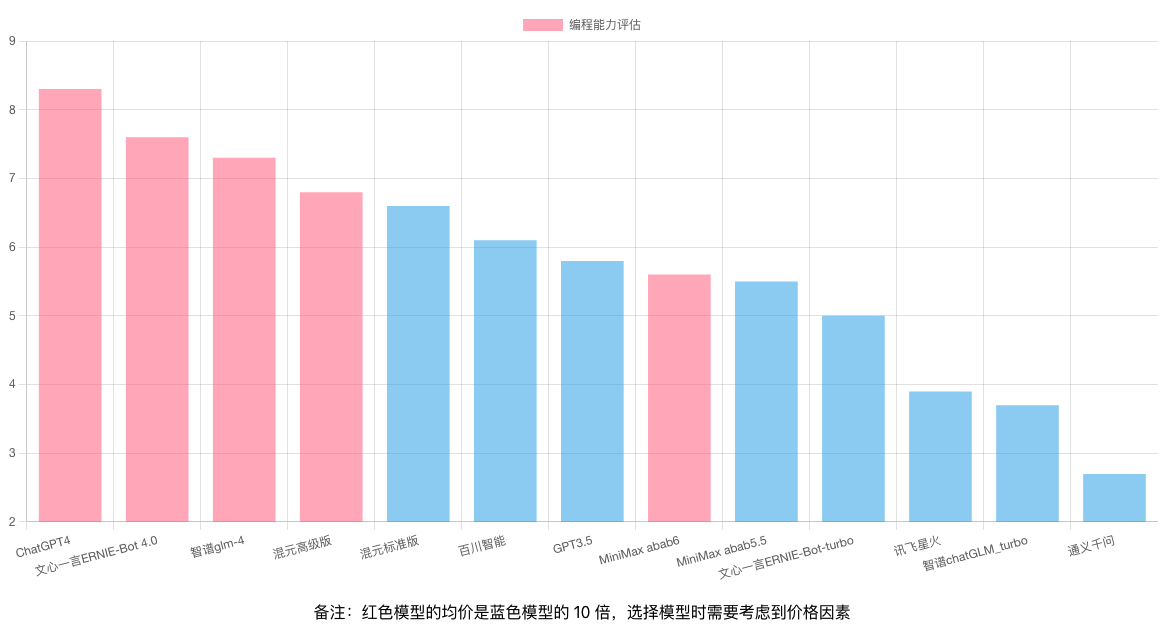
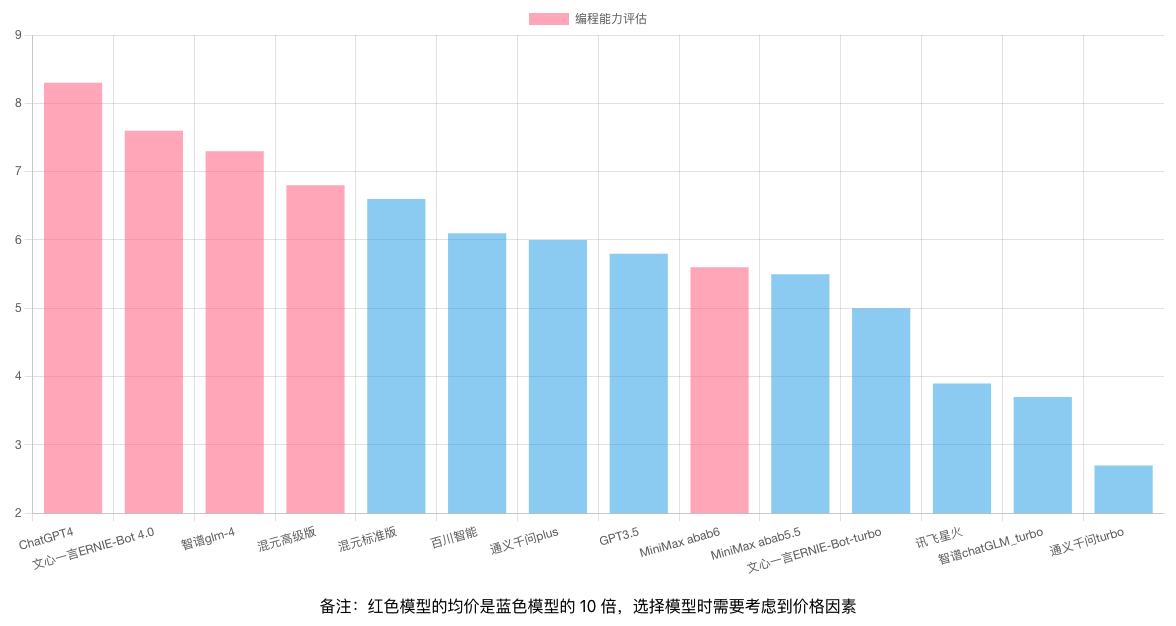
Add support for Ali Tongyiqianwen plus

diff --git a/ai-hub-fe/src/ModelAssess.js b/ai-hub-fe/src/ModelAssess.js
@@ -14,15 +14,16 @@ const ModelAssess = () => {
         const translationChartInstance = new Chart(translationChartRef.current, {
             type: 'bar',
             data: {
-                labels: ['ChatGPT4', '智谱glm-4', '文心一言ERNIE-Bot 4.0', '混元高级版', 'MiniMax abab6', 'GPT3.5',
-                    '百川智能', '智谱chatGLM_turbo', '混元标准版', 'MiniMax abab5.5', '讯飞星火', '通义千问', '文心一言ERNIE-Bot-turbo'],
+                labels: ['ChatGPT4', '智谱glm-4', '文心一言ERNIE-Bot 4.0', '通义千问plus', '混元高级版', 'MiniMax abab6', 'GPT3.5',
+                    '百川智能', '智谱chatGLM_turbo', '混元标准版', 'MiniMax abab5.5', '讯飞星火', '通义千问turbo', '文心一言ERNIE-Bot-turbo'],
                 datasets: [{
                     label: '翻译能力评估',
-                    data: [8, 7.2, 7.1, 6.6, 6.6, 6.4, 6.4, 6.3, 6.3, 6, 5.9, 5.3, 4.9],
+                    data: [8, 7.2, 7.1, 6.9, 6.6, 6.6, 6.4, 6.4, 6.3, 6.3, 6, 5.9, 5.3, 4.9],
                     backgroundColor: [
                         'rgba(255, 99, 132, 0.5)',
                         'rgba(255, 99, 132, 0.5)',
                         'rgba(255, 99, 132, 0.5)',
+                        'rgba(54, 162, 235, 0.5)',
                         'rgba(255, 99, 132, 0.5)',
                         'rgba(255, 99, 132, 0.5)',
                         'rgba(54, 162, 235, 0.5)',
@@ -50,17 +51,18 @@ const ModelAssess = () => {
         const codingChartInstance = new Chart(codingChartRef.current, {
             type: 'bar',
             data: {
-                labels: ['ChatGPT4', '文心一言ERNIE-Bot 4.0', '智谱glm-4', '混元高级版', '混元标准版', '百川智能', 'GPT3.5',
-                    'MiniMax abab6', 'MiniMax abab5.5', '文心一言ERNIE-Bot-turbo', '讯飞星火', '智谱chatGLM_turbo', '通义千问'],
+                labels: ['ChatGPT4', '文心一言ERNIE-Bot 4.0', '智谱glm-4', '混元高级版', '混元标准版', '百川智能', '通义千问plus', 'GPT3.5',
+                    'MiniMax abab6', 'MiniMax abab5.5', '文心一言ERNIE-Bot-turbo', '讯飞星火', '智谱chatGLM_turbo', '通义千问turbo'],
                 datasets: [{
                     label: '编程能力评估',
                     data: [8.3, 7.6, 7.3, 6.8, 6.6,
-                        6.1, 5.8, 5.6, 5.5, 5, 3.9, 3.7, 2.7],
+                        6.1, 6, 5.8, 5.6, 5.5, 5, 3.9, 3.7, 2.7],
                     backgroundColor: [
                         'rgba(255, 99, 132, 0.5)',
                         'rgba(255, 99, 132, 0.5)',
                         'rgba(255, 99, 132, 0.5)',
                         'rgba(255, 99, 132, 0.5)',
+                        'rgba(54, 162, 235, 0.5)',
                         'rgba(54, 162, 235, 0.5)',
                         'rgba(54, 162, 235, 0.5)',
                         'rgba(54, 162, 235, 0.5)',

diff --git a/ai-hub-fe/src/Chat.js b/ai-hub-fe/src/Chat.js
@@ -21,6 +21,7 @@ function Chat() {
         'Xunfei/Spark3.1': true,
 
         'Baidu/ERNIE-Bot-4': false,
+        'Ali/qwen-plus': false,
         'Zhipu/glm-4': false,
         'Tencent/ChatPro': false,
         'Minimax/abab6-chat': false,

diff --git a/docs/use_cases/translation/case2.md b/docs/use_cases/translation/case2.md
@@ -5,43 +5,46 @@ All mine were written by men (it was always men) who held the interesting notion
 
 ## Translations
 
-### OpenAI/ChatGPT4（8分）
+### OpenAI/ChatGPT4（8）
 这些书籍都是男性作者（似乎总是男性）所写，他们坚信一个有趣的理念：只要以公式表达，任何内容都会变得明晰。他们还有个可笑的误解，以为在章节末尾附上一些问题，会让美国孩子们利用空闲时间去思考，而这些孩子们会对此感到兴趣。
 
-### OpenAI/gpt-3.5-turbo（7分）
+### OpenAI/gpt-3.5-turbo（7）
 所有我的书都是由男性（总是男性）写的，他们抱着这样一个有趣的观点，认为一切都可以用公式表达清楚，并滑稽地相信美国的孩子们会喜欢在每章结束时有一节问题供他们自己思考。
 
-### Baidu/ERNIE-Bot-4（7分）
+### Baidu/ERNIE-Bot-4（7）
 我所有的书都是由男性编写的（清一色的男性），他们有一个有趣的观念：任何事物都可以通过一个公式来表达清楚。他们还有一个颇为有趣的错觉：美国的孩子们会喜欢在章节末尾看到一些问题，这样他们就可以在自己的时间里仔细思考这些问题了。
 
-### Zhipu/glm-4（6.5分）
+### Ali/qwen-plus(7)
+所有的作品均出自男性（清一色的男性作者），他们秉持着一种有趣的观念：一旦用公式表达出来，一切就都能变得豁然开朗。同时，他们还抱有一个颇为滑稽的错觉：美国的孩子们将会乐于见到章节末尾设有可供他们自行琢磨的问题板块。
+
+### Zhipu/glm-4（6.5）
 我所指的那些书，都是由男性作者编写的（好像总是这样）。他们认为用公式来表达事物会让人更容易理解，而且天真地相信，美国的孩子们会喜欢在每章结尾的部分找到一些问题，可以让他们在自己的空闲时间里慢慢思考。
 
-### Tencent/ChatPro（6.5分）
+### Tencent/ChatPro（6.5）
 所有的书都是男性（总是男性）写的，他们持有有趣的观点，即当用公式表达时，一切都会变得清晰；他们还可笑地误以为美国的孩子会喜欢章节最后有一部分是他们可以自己琢磨的问题。
 
-### Tencent/ChatStd(6.5分)
+### Tencent/ChatStd(6.5)
 我的书写都是由男性完成的（始终是男性），他们有一种有趣的观念：当一切都可以用公式来表达时，事情就会变得清晰了。他们还有一种令人陶醉的错觉，即美国的孩子们会感激在章节末尾有一部分是问题，他们可以在自己的时间里思考。 
 
-### Minimax/abab6-chat（6分）
+### Minimax/abab6-chat（6）
 我所有的书都是由那些持有一个有趣想法的人所写，他们认为当一切用公式表达出来时，就变得清晰了，并且可笑地认为美国的学生们会喜欢在章节末尾有一些问题，他们可以在自己的时间里琢磨。
 
-### Ali/qwen-turbo（6分）
+### Ali/qwen-turbo（6）
 我所有的书都是男性（总是男性）写的，他们有趣地认为，当所有事情都用公式表达出来时，一切都变得清晰明了，并且有趣地错误地相信美国的孩子们会欣赏章节结束时有一部分问题供他们自己考虑。
 
-### Baichuan/Baichuan2-Turbo（5.5分）
+### Baichuan/Baichuan2-Turbo（5.5）
 我所提到的所有书籍都是由那些持有有趣观点的人（通常是男性）所写，他们认为，一旦事情以公式的方式表达出来，就会变得更加清晰明了。此外，他们还有一种让人发笑但又有些迷惑的信念，那就是美国的孩子们会在自己的时间里思考章节末尾提出的问题，从而更好地理解内容。
 
-### Zhipu/chatGLM_turbo（5分）
+### Zhipu/chatGLM_turbo（5）
 所有这些文章皆由男性撰写，他们拥有独特的见解，认为将事物表达成公式时会更加清晰明了，同时还固执地相信，美国青少年会喜欢在文章章节结尾部分加入一些可以自行思考的问题。
 
-### Xunfei/Spark3.1（5分）
+### Xunfei/Spark3.1（5）
 所有的故事都是由男性（始终是男性）创作的，他们持有一个有趣的想法：当所有事情被表达为公式时，一切都变得清晰。他们还相信美国的孩子会喜欢在章节结尾加上一些他们可以在自己的时间里思考的问题。
 
-### Minimax/abab5.5-chat（5分）
+### Minimax/abab5.5-chat（5）
 我所有的书都是由男性写的，他们相信，用公式表达一切会变得清晰，并且错误地认为，美国的孩子们会喜欢章节以他们可以自己思考的问题部分结束。
 
-### Baidu/ERNIE-Bot-turbo(5分)
+### Baidu/ERNIE-Bot-turbo(5)
 我的作品全都是男性写的（总是男性），他们抱有这样一个有趣的想法，即当一切以公式表达出来时，一切都会变得清晰明了；还有这样一个有趣而幼稚的信念，那就是美国孩子们会欣赏那些以问题结尾的章节，他们可以自己思考。
 
 ### Summary

diff --git a/docs/use_cases/translation/case3.md b/docs/use_cases/translation/case3.md
@@ -32,6 +32,15 @@ A good software architecture would reduce the amount of changed code to the bare
 ### Minimax/abab6-chat（7）
 设想我们有一个系统，它能够在网页上展示财务摘要。这个系统具备滚动功能，并且能够将负数以红色突出显示。 现在，假设利益相关者希望将同样的信息整理成一份报告，以便在黑白打印机上打印出来。这份报告应当有恰当的分页设计，包括页眉、页脚以及列标题。此外，报告中的负数应该用括号括起来，以便清晰标识。 显然，我们需要编写一些新的代码来处理这些需求。但是，究竟有多少现有的代码需要被修改或更新呢？ 一个优秀的软件架构应当将需要修改或更新的代码量降至最低，理想情况下，这个数量应该是零。
 
+### Ali/qwen-plus（7）
+设想这样一个场景：我们拥有的一个系统能够在网页上展示一份可滚动的财务摘要，其中负数值会用红色标识出来。
+
+现在，假设我们的客户或决策者提出需求，希望将这些相同的数据制作成一份能在黑白打印机上打印的报告。这份报告需要具备合理的分页功能，配有适当的页眉、页脚以及列标题，并且负数要用括号括起来。
+
+很显然，我们需要编写新代码来实现这一变化。但问题是，我们需要修改多少现有的代码呢？
+
+一个优秀的软件架构设计会尽可能减少对原有代码的修改，最好能做到完全不用修改现有代码。
+
 ### OpenAI/gpt-3.5-turbo（6.5）
 想象一下，我们有一个系统，在网页上显示财务摘要。页面上的数据可以滚动，负数以红色显示。 现在想象一下，利益相关者要求将这些信息转化为一份要打印在黑白打印机上的报告。报告应该有适当的分页、页眉、页脚和列标签。负数应该用括号括起来。 显然，需要编写一些新代码。但是，有多少旧代码需要改变呢？ 一个好的软件架构应该将需要改变的代码量减少到最低限度。理想情况下，是零。
 
@@ -52,6 +61,7 @@ A good software architecture would reduce the amount of changed code to the bare
 
 ### Ali/qwen-turbo（4）
 设想一下，我们需要把一个网页上的财务总结转化为打印版的报告。这个报告要在黑白打印机上打印，有页眉、页脚和列标签，还要特别标注出负数。这需要我们添加一些新的代码。那么，我们要改动多少原本的代码呢？良好的软件架构可以让改动的代码量降到最低。最好是不改动任何代码。
+
 
 ### Summary
 1. `OpenAI/gpt-3.5-turbo` 和 `Xunfei/Spark3.1`没有做意译，没有完全理解这个需求。

diff --git a/docs/use_cases/translation/case5.md b/docs/use_cases/translation/case5.md
@@ -44,6 +44,11 @@ consciousness.
 
 然而在摩托车上，束缚你的框架消失了。你与周围的一切紧密相连，不再是置身事外的观察者。你融入了场景，感受到强烈的存在感。那从你脚边五英寸处呼啸而过的混凝土，是真实的存在，是你走路时踩到的相同物质，它就在那里，模糊到你无法聚焦，但你可以随时停下脚步去触摸它。整个过程，整个体验，都始终紧紧抓住你的感知。
 
+### Ali/qwen-plus（6.5）
+骑着摩托车旅行，你会用一种与以往截然不同的方式感受周遭景致。坐在汽车里，你犹如被困在一个隔间内，由于习惯了这种模式，你甚至没察觉到透过车窗望出去的世界，其实就如同看电视一般，你是被动地旁观这一切，景象纷纷一闪而过，平淡无奇且被框定在视线之内。
+
+然而骑上摩托车，那层束缚消失了。你彻底融入周围的环境，不再是简单的旁观者，而是身处其境，那种强烈的现场感简直让人难以抵挡。紧贴着你脚下的混凝土路面快速掠过，那实实在在的质地，正是你平日所走的地面，虽因速度之快变得模糊不清，但只要你愿意，随时都能伸出脚去触摸，这个过程中的每一刻、每一次感官体验都清晰如新地呈现在你的意识之中。
+
 ### Minimax/abab6-chat（6）
 骑摩托车旅行时，你看待世界的方式与众不同。在汽车里，你始终处于一个封闭的空间，窗外的景色对你来说就像电视画面一样平常。你只是一个被动的观察者，窗外的一切在无趣的框架中缓缓移动。
 
@@ -81,6 +86,7 @@ consciousness.
 
 ### Baidu/ERNIE-Bot-turbo(3)
 在摩托车上，你以一种全新的方式体验着周围的一切。你不再像坐在汽车里那样被动地观察周围，而是真正地融入其中。脚下飞驰而过的混凝土就是真实的，你可以随时放下脚去触碰它。整个过程和体验都始终保持在你的直接意识中，既新鲜又真实。
+
 
 ### Summary
 1. `Xunfei/Spark3.1` 没有提供意译的版本。

diff --git a/docs/use_cases/translation/case1.md b/docs/use_cases/translation/case1.md
@@ -22,9 +22,11 @@ Not all solutions to a problem are pretty. This may mean little to no tests, poo
 ### Zhipu/chatGLM_turbo（7分）
 并非所有问题的解决方案都完美。这意味着测试不足，性能较差，代码质量不高等等。有时我们只需要一个能证明问题可以解决的方案。我们要确保问题是可以解决的，即便可能不是理想的解决方案。
 
+### Ali/qwen-plus（7分）
+并不是所有解决问题的办法都令人满意，也许这意味着测试很少甚至几乎没有，运行效率低下，或者代码写得不够优雅。有时候，我们仅仅需要一个方案来证实问题确实能够被解决。我们要确保哪怕采取的解决方案并不尽如人意，也足以证明问题本身是能够得到解决的。
+
 ### Tencent/ChatPro（6.5分）
 并非所有问题的解决方案都是优美的。这可能意味着我们很少或没有测试、性能不佳、代码丑陋等。有时候，我们只需要找到一个解决方案来证明问题是可以解决的。我们也希望确保问题是可以解决的，即使解决方案不太理想。
-
 
 ### Minimax/abab5.5-chat（6.5分）
 并非所有问题的解决方案都是完美的。这可能意味着没有足够的测试，性能不佳，代码丑陋等。有时，我们只需要一个可以解决问题的方案，即使它并不理想。我们要确保问题可以解决，即使解决方案并不令人满意。

diff --git a/docs/use_cases/coding/case2.md b/docs/use_cases/coding/case2.md
@@ -59,6 +59,9 @@ public class Credential {
 ### Zhipu/chatGLM_turbo（4）
 无视了@Data，并且生成了包含所有参数的构造函数，但又少了无参构造函数，而get和set函数又没写全。
 
+### Ali/qwen-plus(4)
+没理解对需求，Java Bean确实生成了，但是生成了某个数据库操作的一堆annotation。
+
 ### Baidu/ERNIE-Bot-turbo(4)
 没理解对需求，Java Bean确实生成了，但是生成了某个数据库操作的一堆annotation。
 
@@ -67,6 +70,7 @@ public class Credential {
 
 ### Ali/qwen-turbo（2）
 没理解对需求，Java Bean确实生成了，但是生成了某个数据库操作的一堆annotation和辅助函数。
+
 
 
 ### Summary

diff --git a/docs/use_cases/coding/case3.md b/docs/use_cases/coding/case3.md
@@ -51,6 +51,9 @@
 ### Baidu/ERNIE-Bot-turbo(7)
 正确实现了需求，但是解释有一部分是错的。
 
+### Ali/qwen-plus（6.5）
+比较丑的实现了功能。
+
 ### Xunfei/Spark3.1（6.5）
 比较丑的实现了功能。
 
@@ -80,7 +83,6 @@
 
 ### Ali/qwen-turbo（2）
 答非所问，方向完全错误。
-
 
 ### Summary
 1. 注意：大型语言模型的响应基于概率性预测，因此并不保证每次都一致。只有通过广泛的测试用例和多次测试，才能更准确地评估模型的性能。

diff --git a/docs/use_cases/coding/case1.md b/docs/use_cases/coding/case1.md
@@ -47,6 +47,9 @@
 ### Tencent/ChatPro（8）
 正确完成了需求。
 
+### Ali/qwen-plus（7.5）
+基本正确完成了需求，但是部分属性不符合Java Bean规范。
+
 ### Zhipu/glm-4（7.5）
 基本正确完成了需求，但是部分属性不符合Java Bean规范。
 
